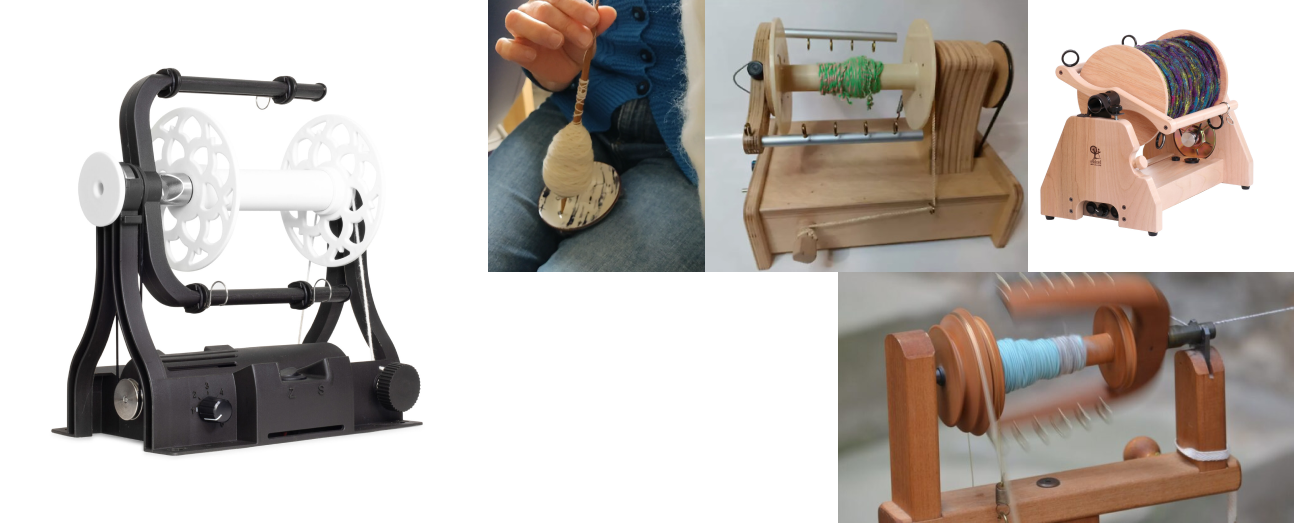
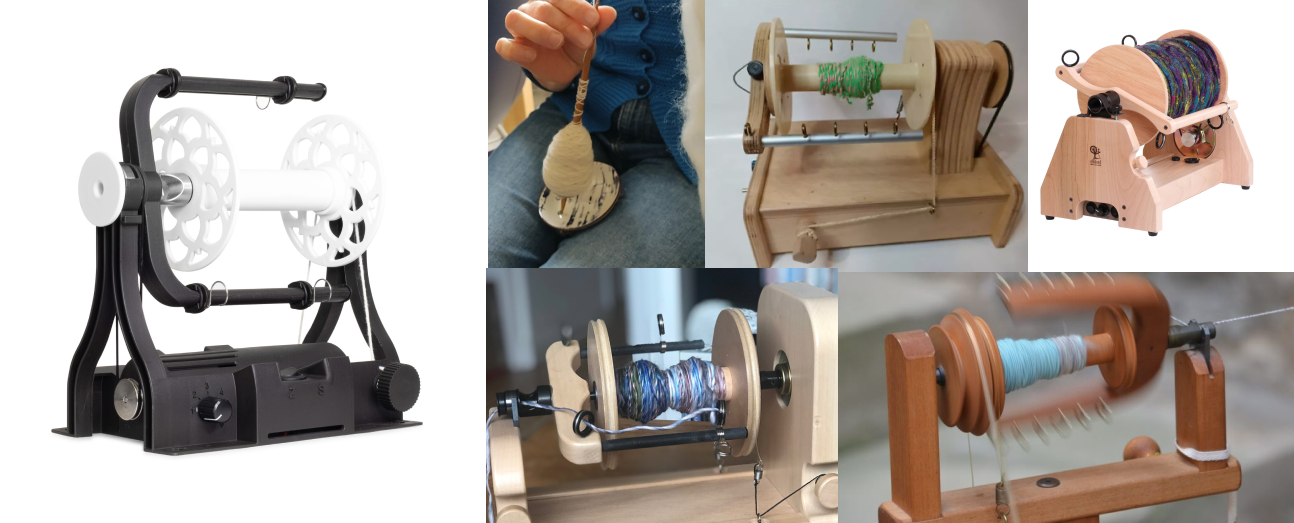
finalissim

Changed region(s): [[0.3709, 0.4895, 0.6491, 1.0]]

diff --git a/docs/Year2/07-OpenSource.md b/docs/Year2/07-OpenSource.md
@@ -143,10 +143,17 @@ This project was an experimental attempt to innovate on traditional spinning mot
 
 
 **Future Improvements**
+
 1. Redesign the spool and axis to incorporate locking mechanisms and better tolerances like make a 13 mm diameter instead of 12 on the axis. (See more of what to change and our exploration in the progress part)
+
 2. Use heat-resistant materials like PETG or ABS for 3D-printed parts.
+
 3. Create a stable, modular structure with integrated motor mounts and electronics housing.
+
 4. Test the system more thoroughly under real operating conditions to identify additional weaknesses.
+
+![](../images/year2/Fibers/Final.png)
+
 
 ### Exploration and Progress (Day 1–4)
 
@@ -247,5 +254,8 @@ This project was an experimental attempt to innovate on traditional spinning mot
 ### Licence
 This project is released under the **MIT License**, allowing users to use, modify, distribute, and share the project freely, as long as proper attribution is provided.
 
-
 ## Reflection
+
+I found the course really interesting, but we spent too much time adjusting and adapting a file instead of actually exploring what we could do with it. For example, most of our time went into making the prototype, and then adapting the materials to make it work. My main takeaway from this course is that adapting someone else's file is not always the best approach. You end up spending more time analyzing and understanding what they did instead of creating something from scratch. Additionally, we were completely dependent on one 3D printer, and since our entire project relied on 3D printed parts, it slowed down the process significantly.
+
+I would have liked to explore material resistance more and how to improve it. While it was a valuable experience to build and prototype something, I wish we had spent more time on the testing part. I think prototyping is more fun if you test, fail and fix instead of only prototyping one thing and expecting it to work (which never happens). But well, it was also fun to see how to turn fibers to fabrics <3
